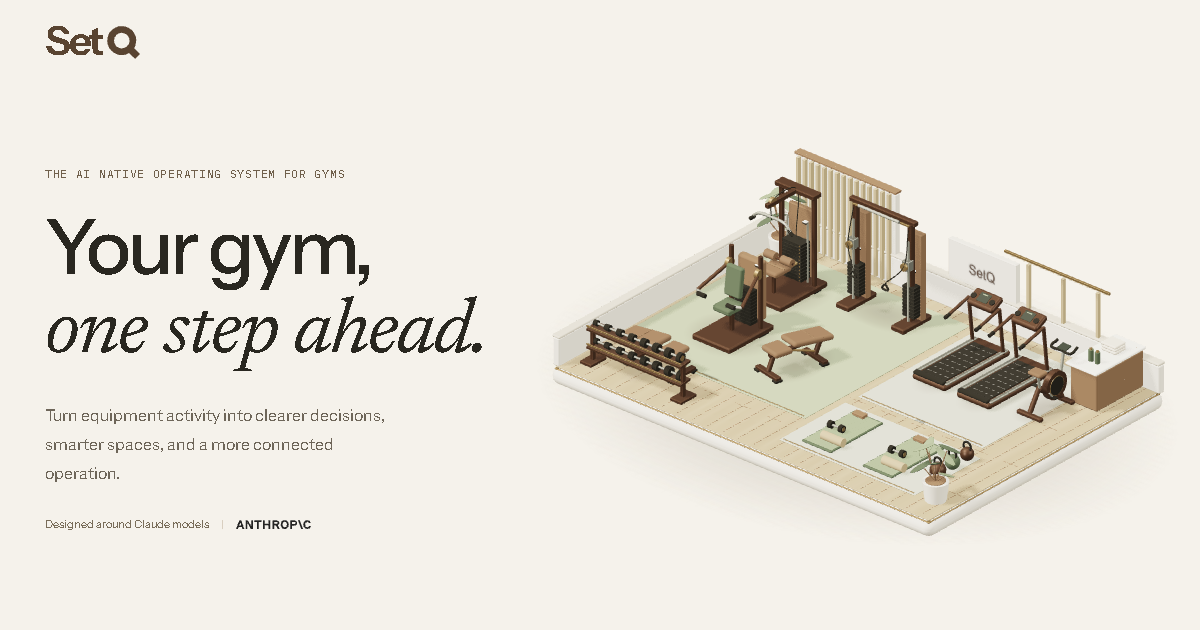
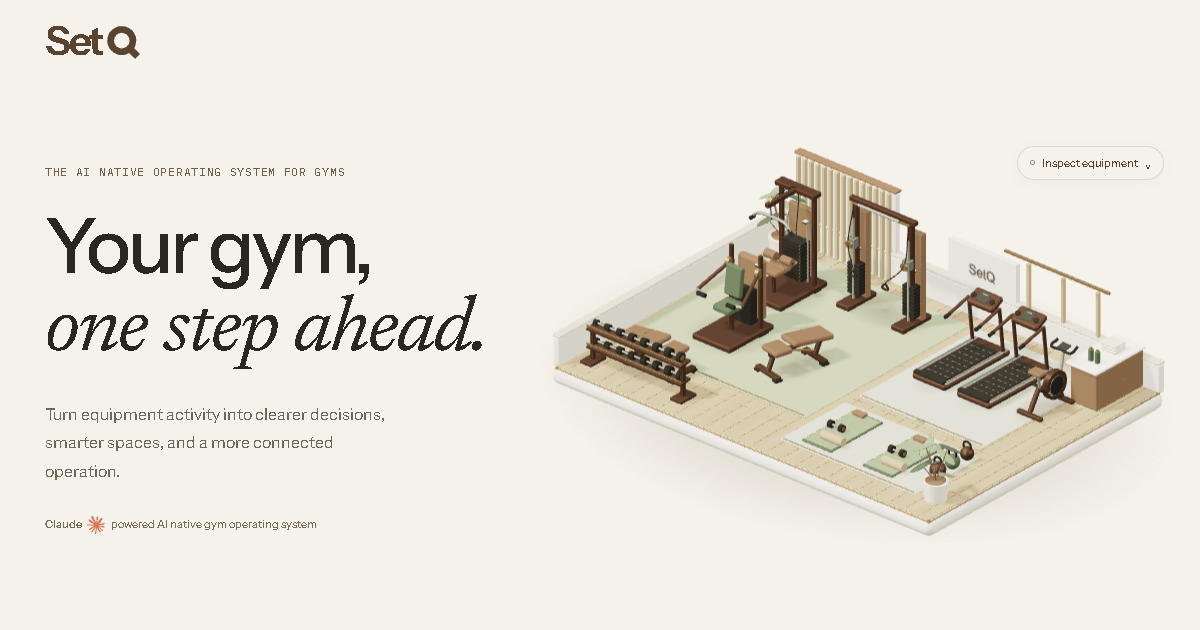
Use Claude symbol and remove visible annotation countdown

diff --git a/src/components/MachineAnnotation.jsx b/src/components/MachineAnnotation.jsx
@@ -72,7 +72,6 @@ const MachineAnnotation = forwardRef(function MachineAnnotation(
   const machine = MACHINE_DATA[machineId];
   const id = useId();
   const [pinned, setPinned] = useState(false);
-  const [seconds, setSeconds] = useState(10);
   const [shown, setShown] = useState(false);
   const shownMachine = useRef(null);
   const onCloseRef = useRef(onClose);
@@ -80,7 +79,6 @@ const MachineAnnotation = forwardRef(function MachineAnnotation(
   onCloseRef.current = onClose;
   motionReducedRef.current = reducedMotion;
   const float = useRef({ value: 0 });
-  const countdownRing = useRef(null);
   const layer = useRef(null),
     card = useRef(null),
     face = useRef(null),
@@ -259,15 +257,10 @@ const MachineAnnotation = forwardRef(function MachineAnnotation(
   }, [machineId, machine, place, reducedMotion]);
   useEffect(() => {
     if (!machine || !shown) return;
-    const circumference = 2 * Math.PI * 13;
-    countdownRing.current?.setAttribute("stroke-dasharray", `${circumference}`);
     if (pinned) {
-      setSeconds(null);
-      countdownRing.current?.setAttribute("stroke-dashoffset", "0");
       gsap.set(face.current, { opacity: 1, y: 0 });
       return;
     }
-    setSeconds(10);
     const deadline = performance.now() + 10000;
     if (layer.current)
       layer.current.dataset.closeDeadline = deadline.toFixed(2);
@@ -275,13 +268,11 @@ const MachineAnnotation = forwardRef(function MachineAnnotation(
       expired = false,
       exitAnimation,
       didClose = false;
-    let timer, interval, exitTimer;
+    let timer, exitTimer;
     const finish = () => {
       if (cancelled || expired) return;
       expired = true;
       clearTimeout(timer);
-      clearInterval(interval);
-      setSeconds(0);
       const close = () => {
         if (cancelled || didClose) return;
         didClose = true;
@@ -302,23 +293,10 @@ const MachineAnnotation = forwardRef(function MachineAnnotation(
         exitTimer = setTimeout(close, 250);
       }
     };
-    const tick = () => {
-      if (cancelled || expired) return;
-      const left = Math.max(0, deadline - performance.now());
-      setSeconds(Math.ceil(left / 1000));
-      countdownRing.current?.setAttribute(
-        "stroke-dashoffset",
-        `${circumference * (1 - left / 10000)}`,
-      );
-      if (!left) finish();
-    };
-    tick();
-    interval = setInterval(tick, 100);
     timer = setTimeout(finish, 10000);
     return () => {
       cancelled = true;
       clearTimeout(timer);
-      clearInterval(interval);
       clearTimeout(exitTimer);
       exitAnimation?.kill();
     };
@@ -366,36 +344,18 @@ const MachineAnnotation = forwardRef(function MachineAnnotation(
               aria-pressed={pinned}
               title={
                 pinned
-                  ? "Unpin: close after another 10 seconds"
+                  ? "Allow this equipment card to close automatically"
                   : "Keep this equipment card open"
               }
               onClick={() => setPinned((value) => !value)}
             >
               <Pin size={11} />
-              <span data-countdown-seconds={seconds ?? ""} aria-hidden="true">
-                {pinned ? "Keep" : `${seconds}s`}
-              </span>
             </button>
             <button
               className="machine-annotation__close"
               onClick={onClose}
               aria-label="Close equipment annotation"
             >
-              <svg
-                className="machine-annotation__countdown-ring"
-                viewBox="0 0 30 30"
-                aria-hidden="true"
-              >
-                <circle
-                  ref={countdownRing}
-                  cx="15"
-                  cy="15"
-                  r="13"
-                  fill="none"
-                  stroke="currentColor"
-                  strokeWidth="1.2"
-                />
-              </svg>
               <X size={14} />
             </button>
           </div>

diff --git a/src/styles/refinements.css b/src/styles/refinements.css
@@ -15,6 +15,66 @@
 .motion-toggle:disabled {
   opacity: 0.7;
 }
+.site-shell .claude-credit {
+  display: inline-flex;
+  align-items: center;
+  flex-wrap: wrap;
+  gap: 3px 6px;
+  line-height: 1.55;
+  font-size: 11px;
+}
+.site-shell .claude-credit__brand {
+  display: inline-flex;
+  align-items: center;
+  gap: 5px;
+  white-space: nowrap;
+  font-weight: 500;
+}
+.site-shell .claude-credit .claude-credit__brand img {
+  width: 18px;
+  height: 18px;
+  max-height: none;
+  max-width: none;
+  padding: 0;
+  border: 0;
+  opacity: 1;
+  filter: none;
+  box-sizing: border-box;
+}
+.site-shell .claude-credit__copy {
+  min-width: 0;
+}
+.site-shell .claude-credit.dark {
+  color: #d4ccbc;
+}
+.site-shell .claude-credit.compact {
+  font-size: 10px;
+  gap: 3px 5px;
+}
+.site-shell .assistant-credit {
+  flex-wrap: wrap;
+  gap: 6px;
+  align-items: flex-start;
+}
+.site-shell .assistant-credit > .claude-credit {
+  flex-basis: 100%;
+}
+.site-shell .assistant-credit > span:last-child {
+  max-width: none;
+  text-align: left;
+}
+@media (max-width: 760px) {
+  .site-shell .claude-credit {
+    font-size: 10px;
+  }
+  .site-shell .claude-credit .claude-credit__brand img {
+    width: 17px;
+    height: 17px;
+  }
+  .site-shell .claude-credit.compact {
+    font-size: 9px;
+  }
+}
 .hero-topline,
 .hero-small,
 .hero-footnote,

diff --git a/src/components/ClaudeDemo.jsx b/src/components/ClaudeDemo.jsx
@@ -13,13 +13,19 @@ export function ClaudeCredit({ dark = false, compact = false }) {
     <span
       className={`claude-credit ${dark ? "dark" : ""} ${compact ? "compact" : ""}`}
     >
-      <span>{compact ? "Claude models" : "Designed around Claude models"}</span>
-      <img
-        src={`${import.meta.env.BASE_URL}brand/anthropic.svg`}
-        alt="Anthropic"
-        width="85"
-        height="16"
-      />
+      <span className="claude-credit__brand">
+        Claude{" "}
+        <img
+          src={`${import.meta.env.BASE_URL}brand/claude-symbol.svg`}
+          alt=""
+          aria-hidden="true"
+          width="18"
+          height="18"
+        />
+      </span>
+      <span className="claude-credit__copy">
+        powered AI native gym operating system
+      </span>
     </span>
   );
 }

diff --git a/src/styles/machine-annotation.css b/src/styles/machine-annotation.css
@@ -114,15 +114,6 @@
   background: #e9e3d8;
   color: #403223;
 }
-.machine-annotation__countdown-ring {
-  position: absolute;
-  inset: -1px;
-  width: calc(100% + 2px);
-  height: calc(100% + 2px);
-  transform: rotate(-90deg);
-  color: #7c8c63;
-  pointer-events: none;
-}
 .machine-annotation__pin {
   position: absolute;
   right: 45px;
@@ -131,7 +122,7 @@
   align-items: center;
   justify-content: center;
   gap: 4px;
-  min-width: 39px;
+  min-width: 25px;
   height: 24px;
   padding: 3px 5px;
   background: #f5f2e9;
@@ -150,9 +141,6 @@
   background: #e5ead9;
   border-color: #bac6a2;
   color: #556b3c;
-}
-.machine-annotation[data-pinned="true"] .machine-annotation__countdown-ring {
-  opacity: 0;
 }
 .machine-annotation__close:focus-visible {
   outline: 2px solid #6d8054;

diff --git a/README.md b/README.md
@@ -39,7 +39,7 @@ Build output is `dist/`, suitable for any static host. Fonts, models, illustrati
 
 Machine annotations include activity, coverage, trends and peak periods for the three illustrated weight-stack machines, and useful inventory/review records for the other equipment. All values are labelled examples. `Inspect equipment` provides keyboard access; Escape, the close button or the scene background returns to the overview.
 
-Cards gently float and close about ten seconds after appearing. `Keep open` pins a card; allowing auto-close starts a fresh ten seconds. The countdown stays functional when decorative motion is paused. A saved `Pause motion` preference and device reduced-motion settings settle the entire experience.
+Cards gently float and close about ten seconds after appearing, without a visible countdown. `Keep open` pins a card; allowing auto-close starts a fresh ten seconds. Automatic dismissal stays functional when decorative motion is paused. A saved `Pause motion` preference and device reduced-motion settings settle the entire experience.
 
 Visible-only motion adds a travelling diagram signal, authored chart reveals, a breathing introduction dot, a subtle gym-render float, and an orbital demo invitation. Controls remain steady; none of these effects change the sample metrics. See `docs/motion-ideas.md` for applied touches and future concepts.
 
@@ -85,4 +85,4 @@ Avoid setting a Pages custom domain before the DNS is prepared; doing so can red
 - `docs/assets.md`: exact model source, geometry-preserving optimization and brand attribution.
 - `THIRD_PARTY_NOTICES.md`: third-party software/fonts and trademark identification.
 
-All SetQ illustrations and gym geometry are original. Research references inform composition and interaction; their artworks and websites were not copied. Anthropic's authentic wordmark identifies the planned model technology and does not imply a partnership or endorsement.
+All SetQ illustrations and gym geometry are original. Research references inform composition and interaction; their artworks and websites were not copied. Claude's authentic symbol identifies the planned model technology and does not imply a partnership or endorsement. The requested product line reads "Claude [symbol] powered AI native gym operating system"; development/preview status remains disclosed.

diff --git a/docs/machine-annotations.md b/docs/machine-annotations.md
@@ -14,7 +14,7 @@ Native `Inspect equipment` controls provide keyboard access. Selection announces
 
 Camera and mechanical movement are finite. Reduced motion uses the settled pose immediately. Offscreen scenes stop drawing. No page-height change occurs on selection; narrow screens have a fixed larger baseline scene so the equipment remains visible beneath the annotation.
 
-Update: the annotation's DOM surface now has a slow four-pixel idle float while visible and unattended. The connector stretches with it while the machine pin stays fixed. Hover and keyboard interaction hold the float. Each card closes about ten seconds after it becomes visible; a countdown ring and `Keep open` pin make that behaviour controllable. Unpinning or selecting another asset starts a fresh deadline. Timeout closure preserves focus outside the card, and reduced motion/user pause stop decorative motion without stopping the functional timer. Camera framing remains finite and WebGL sleeps after settling.
+Update: the annotation's DOM surface now has a slow four-pixel idle float while visible and unattended. The connector stretches with it while the machine pin stays fixed. Hover and keyboard interaction hold the float. Each card closes about ten seconds after it becomes visible, with no visible countdown; the `Keep open` pin makes dismissal controllable. Unpinning or selecting another asset starts a fresh deadline. Timeout closure preserves focus outside the card, and reduced motion/user pause stop decorative motion without stopping the functional timer. Camera framing remains finite and WebGL sleeps after settling.
 
 ## Data
 

diff --git a/docs/assets.md b/docs/assets.md
@@ -18,9 +18,9 @@ The runtime changes finishes for brand coherence, keeps the sensor face down, an
 
 All gym icons, four small isometric figures and the layered sensor/floor/brief figure are original path geometry. Hairline is a visual grammar reference, with no code or SVG paths copied. Unique IDs and descriptive SVG titles support multiple instances and assistive technology.
 
-## Anthropic
+## Claude
 
-`public/brand/anthropic.svg` preserves the official inline wordmark geometry from [Anthropic's company page](https://www.anthropic.com/company), retrieved 2026-10-08. It is a trademark asset, not an asserted open-source asset. It identifies the planned model technology. The site explicitly discloses the development state and makes no partnership or endorsement claim.
+`public/brand/claude-symbol.svg` preserves the official sunburst path and rust colour from [Claude's homepage](https://claude.com/), retrieved 2026-10-08. The surrounding lettering was omitted so the standalone symbol can sit between "Claude" and "powered AI native gym operating system", as requested. The prior Anthropic wordmark was removed. Exact source, extraction and hash are recorded in `docs/claude-symbol-provenance.md`. The mark identifies the planned model technology; preview/development status remains disclosed and no partnership or endorsement is claimed.
 
 ## Fonts
 

diff --git a/docs/research-motion.md b/docs/research-motion.md
@@ -33,7 +33,7 @@ Motion is finite: intersection entry reveals groups over 850ms, staggered by 120
 
 ## Official Anthropic asset provenance
 
-`public/brand/anthropic.svg` is the actual inline wordmark from [Anthropic's official company page](https://www.anthropic.com/company), selected by its `aria-label="Anthropic"`. The source path geometry and 570 × 64 viewBox are preserved. The only rendering modification is converting `currentColor` to black for a standalone SVG. It was not redrawn or sourced from a third-party icon set.
+The original research retrieved the inline wordmark from [Anthropic's official company page](https://www.anthropic.com/company), selected by its `aria-label="Anthropic"`. It was subsequently replaced, at the user's request, with the official standalone Claude sunburst. The current asset's precise source and extraction are documented in `docs/claude-symbol-provenance.md`; the old wordmark is no longer shipped.
 
 No open-source license for this brand mark was observed. Treat it as an Anthropic trademark, not as an MIT asset. Place it only beside an accurate Claude technology reference with SetQ's early-access status. Its presence must not imply sponsorship, a customer relationship or partnership.
 

diff --git a/THIRD_PARTY_NOTICES.md b/THIRD_PARTY_NOTICES.md
@@ -9,7 +9,7 @@ This repository's original SetQ website/illustrations/geometry are provided for 
 - GSAP: GreenSock/Webflow, standard GSAP licence. See the installed package's licence.
 - Vite and its React plugin: Vite contributors, MIT.
 - Instrument Sans, Newsreader and IBM Plex Mono: respective font authors, SIL Open Font License 1.1, supplied through Fontsource. Their original licence text is included in `public/licenses/`.
-- Anthropic wordmark: Anthropic trademark, exact source noted in `docs/assets.md`. Technology identification only; no endorsement or partnership.
+- Claude symbol: Anthropic trademark, exact primary source noted in `docs/claude-symbol-provenance.md`. Technology identification only; no endorsement or partnership.
 - Sensor GLB: derived from the prior SetQ hardware study and manufacturer references, with its source attribution and limitations preserved in `docs/assets.md`.
 
 Research references such as Hairline, Recent, CollectUI and Codrops were inspected for design inspiration. Their websites and artwork are not bundled or copied.

diff --git a/docs/claude-symbol-provenance.md b/docs/claude-symbol-provenance.md
@@ -1,0 +1,10 @@
+# Official Claude symbol
+
+- Local asset: `public/brand/claude-symbol.svg`
+- Primary source: [Claude's official homepage](https://claude.com/), retrieved 8 October 2026.
+- Source element: inline SVG with `aria-label="Claude"` and `viewBox="0 0 573 125"`, in the official Claude wordmark.
+- Extraction: retained the separate sunburst path verbatim, including its official rust fill `#D97757`. Removed the separate lettering path and cropped the wrapper viewport to `0 0 125 125`, the symbol's original square coordinates. Added an accessible title/label. No path geometry was edited or redrawn.
+- File size: 2,032 bytes, UTF-8 without BOM.
[1 lines of base64/hex data omitted]
+
+The mark identifies Claude. No open-source license was observed for this trademark asset; it is not covered by the repository's original illustration licensing. Its use does not establish sponsorship or a partnership. The surrounding product status remains owned by the website's copy.

diff --git a/docs/brand.md b/docs/brand.md
@@ -41,4 +41,4 @@ Clear, considered, grounded in the owner's decisions. Say equipment, floor, team
 
 ## Technology identification
 
-Every on-page reference to the requested model technology is accompanied by the authentic Anthropic wordmark through the shared attribution component. Do not present Anthropic as a customer, sponsor, certifier or partner.
+The shared technology line reads **"Claude [Claude symbol] powered AI native gym operating system"**. It uses the official Claude sunburst from claude.com, preserving the original rust colour and path geometry. Preview/development status remains visible. The mark identifies technology and does not imply sponsorship, certification or a partnership.
